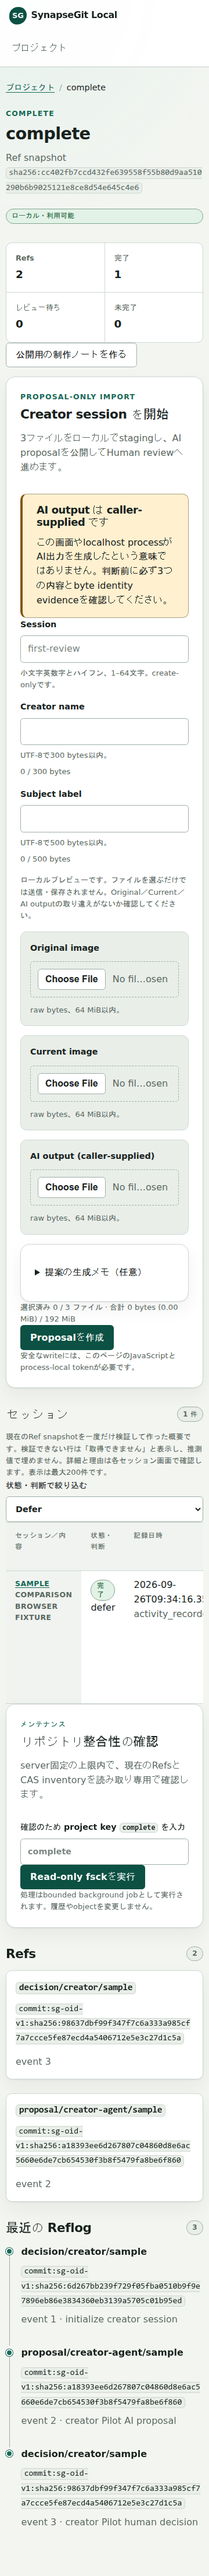
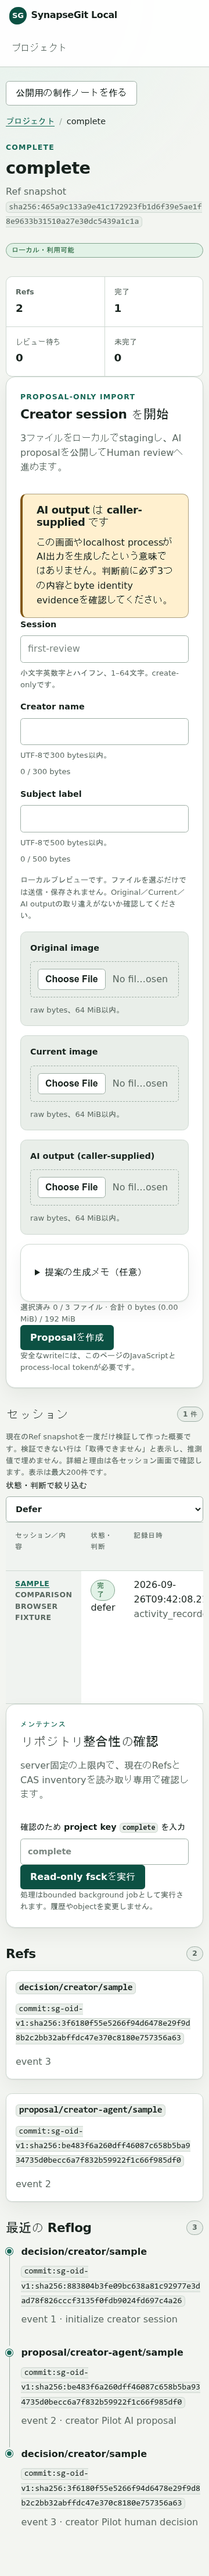
fix(local): place maintenance after creator flow

diff --git a/crates/synapse-local-http/templates/project.html b/crates/synapse-local-http/templates/project.html
@@ -13,13 +13,139 @@
   </div>
   <span class="status-badge" data-tone="success">ローカル・利用可能</span>
 </header>
-<noscript><p><a class="button button--secondary" href="/projects/{{ project_key }}/presentation">公開用の制作ノートを作る</a></p></noscript>
 
 <section class="metric-grid" aria-label="プロジェクト概要">
   <article class="metric"><span class="metric__label">Refs</span><strong>{{ refs.len() }}</strong></article>
   <article class="metric"><span class="metric__label">完了</span><strong>{{ complete_sessions }}</strong></article>
   <article class="metric"><span class="metric__label">レビュー待ち</span><strong>{{ pending_sessions }}</strong></article>
   <article class="metric"><span class="metric__label">未完了</span><strong>{{ incomplete_sessions }}</strong></article>
+</section>
+
+{% if import_inbox_supported %}
+<section class="card" hidden data-import-inbox data-project-key="{{ project_key }}" aria-labelledby="import-inbox-heading">
+  <div class="card__header"><div><p class="eyebrow">Manifest-last inbox</p><h2 id="import-inbox-heading">取り込み待ち</h2><p class="muted">確認時に検証・stagingしたbytesだけをproposalへ取り込みます。</p></div></div>
+  <p data-import-inbox-status role="status"></p>
+  <ul data-import-inbox-list class="stack"></ul>
+  <form hidden data-import-inbox-preview>
+    <h3 tabindex="-1">取り込み内容を確認</h3>
+    <p class="notice" data-tone="warning">AI outputと生成メモはcaller-suppliedです。明示的な判断を行うまでDecisionは記録されません。</p>
+    <div class="upload-grid" data-import-inbox-images></div>
+    <div class="form-grid">
+      <label class="field"><span>Inbox session</span><input name="inbox_session" required maxlength="64" pattern="[a-z][a-z0-9-]{0,63}"></label>
+      <label class="field"><span>Inbox creator name</span><input name="inbox_creator_name" required maxlength="300"></label>
+      <label class="field form-grid__wide"><span>Inbox subject label</span><input name="inbox_subject_label" required maxlength="500"></label>
+      <label class="field"><span>Inbox generation tool</span><input name="inbox_generation_tool" maxlength="300"></label>
+      <label class="field"><span>Inbox generation model</span><input name="inbox_generation_model" maxlength="300"></label>
+      <label class="field form-grid__wide"><span>Inbox generation prompt</span><textarea name="inbox_generation_prompt" maxlength="8192" rows="3"></textarea></label>
+      <label class="field form-grid__wide"><span>Inbox generation intent</span><textarea name="inbox_generation_intent" maxlength="2048" rows="2"></textarea></label>
+    </div>
+    <div class="actions"><button type="submit" data-synapse-submit>Proposalを作成</button><button type="button" data-variant="secondary" data-import-inbox-cancel>一覧へ戻る</button></div>
+  </form>
+</section>
+{% endif %}
+<section class="card project-creator-upload" aria-labelledby="creator-upload-heading">
+  <div class="card__header">
+    <div>
+      <p class="eyebrow">Proposal-only import</p>
+      <h2 id="creator-upload-heading">Creator session を開始</h2>
+      <p class="muted">3ファイルをローカルでstagingし、AI proposalを公開してHuman reviewへ進めます。</p>
+    </div>
+  </div>
+  <div class="notice" data-tone="warning">
+    <h3>AI output は caller-supplied です</h3>
+    <p>この画面やlocalhost processがAI出力を生成したという意味ではありません。判断前に必ず3つの内容とbyte identity evidenceを確認してください。</p>
+  </div>
+  <form
+    hidden
+    method="post"
+    action="/api/v1/projects/{{ project_key }}/creator-sessions"
+    enctype="multipart/form-data"
+    data-synapse-api-form="multipart"
+    data-synapse-creator-upload
+    data-success-session-base="/projects/{{ project_key }}/creator-sessions/"
+    data-busy-message="ファイルを取り込み、proposalを公開しています…"
+    data-success-message="Proposalを公開しました。レビュー画面へ移動します。"
+  >
+    <div class="form-grid">
+      <div class="field">
+        <label for="creator-session">Session</label>
+        <input id="creator-session" name="session" required maxlength="64" pattern="[a-z][a-z0-9-]{0,63}" aria-describedby="creator-session-hint" autocomplete="off" placeholder="first-review">
+        <span id="creator-session-hint" class="field__hint">小文字英数字とハイフン、1–64文字。create-onlyです。</span>
+      </div>
+      <div class="field">
+        <label for="creator-name">Creator name</label>
+        <input id="creator-name" name="creator_name" required maxlength="300" aria-describedby="creator-name-hint creator-name-count" autocomplete="name">
+        <span id="creator-name-hint" class="field__hint">UTF-8で300 bytes以内。</span>
+        <span id="creator-name-count" class="field__hint" data-creator-text-count="creator_name" aria-live="polite" hidden></span>
+      </div>
+      <div class="field form-grid__wide">
+        <label for="creator-subject">Subject label</label>
+        <input id="creator-subject" name="subject_label" required maxlength="500" aria-describedby="creator-subject-hint creator-subject-count" autocomplete="off">
+        <span id="creator-subject-hint" class="field__hint">UTF-8で500 bytes以内。</span>
+        <span id="creator-subject-count" class="field__hint" data-creator-text-count="subject_label" aria-live="polite" hidden></span>
+      </div>
+    </div>
+    <p class="field__hint upload-hint" data-creator-preview-note hidden>ローカルプレビューです。ファイルを選ぶだけでは送信・保存されません。Original／Current／AI outputの取り違えがないか確認してください。</p>
+    <div class="upload-grid">
+      <div class="upload-file" data-creator-file>
+        <label for="creator-original_image">Original image</label>
+        <input id="creator-original_image" type="file" name="original_image" required aria-describedby="creator-original_image-hint creator-original_image-info creator-original_image-status">
+        <p id="creator-original_image-hint" class="field__hint">raw bytes、64 MiB以内。</p>
+        <p id="creator-original_image-info" data-creator-file-info class="field__hint" hidden></p>
+        <img data-creator-preview class="upload-file__preview" alt="Original imageのローカルプレビュー" hidden>
+        <p id="creator-original_image-status" data-creator-preview-status class="field__hint" role="status" hidden></p>
+        <button type="button" data-creator-file-clear data-variant="secondary" aria-label="Original imageの選択を解除" hidden>選択を解除</button>
+      </div>
+      <div class="upload-file" data-creator-file>
+        <label for="creator-current_image">Current image</label>
+        <input id="creator-current_image" type="file" name="current_image" required aria-describedby="creator-current_image-hint creator-current_image-info creator-current_image-status">
+        <p id="creator-current_image-hint" class="field__hint">raw bytes、64 MiB以内。</p>
+        <p id="creator-current_image-info" data-creator-file-info class="field__hint" hidden></p>
+        <img data-creator-preview class="upload-file__preview" alt="Current imageのローカルプレビュー" hidden>
+        <p id="creator-current_image-status" data-creator-preview-status class="field__hint" role="status" hidden></p>
+        <button type="button" data-creator-file-clear data-variant="secondary" aria-label="Current imageの選択を解除" hidden>選択を解除</button>
+      </div>
+      <div class="upload-file" data-creator-file>
+        <label for="creator-ai_output">AI output (caller-supplied)</label>
+        <input id="creator-ai_output" type="file" name="ai_output" required aria-describedby="creator-ai_output-hint creator-ai_output-info creator-ai_output-status">
+        <p id="creator-ai_output-hint" class="field__hint">raw bytes、64 MiB以内。</p>
+        <p id="creator-ai_output-info" data-creator-file-info class="field__hint" hidden></p>
+        <img data-creator-preview class="upload-file__preview" alt="AI output (caller-supplied)のローカルプレビュー" hidden>
+        <p id="creator-ai_output-status" data-creator-preview-status class="field__hint" role="status" hidden></p>
+        <button type="button" data-creator-file-clear data-variant="secondary" aria-label="AI output (caller-supplied)の選択を解除" hidden>選択を解除</button>
+      </div>
+    </div>
+    {% include "generation-note-fields.html" %}
+    <p data-creator-file-summary class="field__hint" role="status" hidden></p>
+    <div class="actions"><button type="submit" data-synapse-submit>Proposalを作成</button></div>
+    <p class="field__hint">安全なwriteには、このページのJavaScriptとprocess-local tokenが必要です。</p>
+    <p data-synapse-status hidden></p>
+  </form>
+  <noscript><div class="notice" data-tone="warning"><p>JavaScriptが無効なため、この画面はread-onlyです。安全なuploadにはprocess-local tokenを付けるJavaScriptが必要です。</p></div></noscript>
+</section>
+
+<section class="project-sessions" aria-labelledby="sessions-heading" data-creator-session-list>
+  <div class="section-heading"><h2 id="sessions-heading">セッション</h2><span class="badge" data-creator-session-count>{{ sessions.len() }} 件</span></div>
+  <p class="field__hint">現在のRef snapshotを一度だけ検証して作った概要です。検証できない行は「取得できません」と表示し、推測値で埋めません。詳細と理由は各セッション画面で確認します。表示は最大200件です。</p>
+  <label class="field"><span>状態・判断で絞り込む</span><select data-creator-session-filter><option value="all">すべて</option><option value="pending">レビュー待ち</option><option value="complete">完了</option><option value="adopt">Adopt</option><option value="reject">Reject</option><option value="defer">Defer</option><option value="incomplete">未完了</option></select></label>
+  {% if sessions.is_empty() %}
+  <div class="empty-state"><h3>セッションはまだありません</h3><p>上のフォームから3ファイルを取り込み、最初のproposalとHuman reviewを開始できます。</p></div>
+  {% else %}
+  <div class="table-wrap"><table>
+    <thead><tr><th>セッション／内容</th><th>状態・判断</th><th>記録日時</th><th>派生元</th><th>head</th></tr></thead>
+    <tbody>
+      {% for session in sessions %}
+      <tr data-creator-session-row data-state="{{ session.state_label }}" data-disposition="{{ session.disposition }}">
+        <th scope="row"><a href="/projects/{{ project_key }}/creator-sessions/{{ session.session }}">{{ session.session }}</a><br><span class="muted">{{ session.subject_label }}</span></th>
+        <td><span class="status-badge" data-tone="{{ session.tone }}">{{ session.state_label }}</span> {{ session.disposition }}</td>
+        <td>{{ session.recorded_at }}<br><span class="muted">{{ session.recorded_time_basis }}</span></td>
+        <td>{% if session.source_session == "—" %}—{% else %}<a href="/projects/{{ project_key }}/creator-sessions/{{ session.source_session }}">{{ session.source_session }}</a>{% endif %}</td>
+        <td><code>{{ session.proposal_head }}</code><br><code>{{ session.decision_head }}</code></td>
+      </tr>
+      {% endfor %}
+    </tbody>
+  </table></div>
+  {% endif %}
 </section>
 
 {% if fsck_supported %}
@@ -152,142 +278,6 @@
   <noscript><div class="notice" data-tone="warning"><p>JavaScriptが無効なため、archive restoreは開始できません。</p></div></noscript>
 </section>
 {% endif %}
-
-{% if import_inbox_supported %}
-<section class="card" hidden data-import-inbox data-project-key="{{ project_key }}" aria-labelledby="import-inbox-heading">
-  <div class="card__header"><div><p class="eyebrow">Manifest-last inbox</p><h2 id="import-inbox-heading">取り込み待ち</h2><p class="muted">確認時に検証・stagingしたbytesだけをproposalへ取り込みます。</p></div></div>
-  <p data-import-inbox-status role="status"></p>
-  <ul data-import-inbox-list class="stack"></ul>
-  <form hidden data-import-inbox-preview>
-    <h3 tabindex="-1">取り込み内容を確認</h3>
-    <p class="notice" data-tone="warning">AI outputと生成メモはcaller-suppliedです。明示的な判断を行うまでDecisionは記録されません。</p>
-    <div class="upload-grid" data-import-inbox-images></div>
-    <div class="form-grid">
-      <label class="field"><span>Inbox session</span><input name="inbox_session" required maxlength="64" pattern="[a-z][a-z0-9-]{0,63}"></label>
-      <label class="field"><span>Inbox creator name</span><input name="inbox_creator_name" required maxlength="300"></label>
-      <label class="field form-grid__wide"><span>Inbox subject label</span><input name="inbox_subject_label" required maxlength="500"></label>
-      <label class="field"><span>Inbox generation tool</span><input name="inbox_generation_tool" maxlength="300"></label>
-      <label class="field"><span>Inbox generation model</span><input name="inbox_generation_model" maxlength="300"></label>
-      <label class="field form-grid__wide"><span>Inbox generation prompt</span><textarea name="inbox_generation_prompt" maxlength="8192" rows="3"></textarea></label>
-      <label class="field form-grid__wide"><span>Inbox generation intent</span><textarea name="inbox_generation_intent" maxlength="2048" rows="2"></textarea></label>
-    </div>
-    <div class="actions"><button type="submit" data-synapse-submit>Proposalを作成</button><button type="button" data-variant="secondary" data-import-inbox-cancel>一覧へ戻る</button></div>
-  </form>
-</section>
-{% endif %}
-
-<section class="card project-creator-upload" aria-labelledby="creator-upload-heading">
-  <div class="card__header">
-    <div>
-      <p class="eyebrow">Proposal-only import</p>
-      <h2 id="creator-upload-heading">Creator session を開始</h2>
-      <p class="muted">3ファイルをローカルでstagingし、AI proposalを公開してHuman reviewへ進めます。</p>
-    </div>
-  </div>
-  <div class="notice" data-tone="warning">
-    <h3>AI output は caller-supplied です</h3>
-    <p>この画面やlocalhost processがAI出力を生成したという意味ではありません。判断前に必ず3つの内容とbyte identity evidenceを確認してください。</p>
-  </div>
-  <form
-    hidden
-    method="post"
-    action="/api/v1/projects/{{ project_key }}/creator-sessions"
-    enctype="multipart/form-data"
-    data-synapse-api-form="multipart"
-    data-synapse-creator-upload
-    data-success-session-base="/projects/{{ project_key }}/creator-sessions/"
-    data-busy-message="ファイルを取り込み、proposalを公開しています…"
-    data-success-message="Proposalを公開しました。レビュー画面へ移動します。"
-  >
-    <div class="form-grid">
-      <div class="field">
-        <label for="creator-session">Session</label>
-        <input id="creator-session" name="session" required maxlength="64" pattern="[a-z][a-z0-9-]{0,63}" aria-describedby="creator-session-hint" autocomplete="off" placeholder="first-review">
-        <span id="creator-session-hint" class="field__hint">小文字英数字とハイフン、1–64文字。create-onlyです。</span>
-      </div>
-      <div class="field">
-        <label for="creator-name">Creator name</label>
-        <input id="creator-name" name="creator_name" required maxlength="300" aria-describedby="creator-name-hint creator-name-count" autocomplete="name">
-        <span id="creator-name-hint" class="field__hint">UTF-8で300 bytes以内。</span>
-        <span id="creator-name-count" class="field__hint" data-creator-text-count="creator_name" aria-live="polite" hidden></span>
-      </div>
-      <div class="field form-grid__wide">
-        <label for="creator-subject">Subject label</label>
-        <input id="creator-subject" name="subject_label" required maxlength="500" aria-describedby="creator-subject-hint creator-subject-count" autocomplete="off">
-        <span id="creator-subject-hint" class="field__hint">UTF-8で500 bytes以内。</span>
-        <span id="creator-subject-count" class="field__hint" data-creator-text-count="subject_label" aria-live="polite" hidden></span>
-      </div>
-    </div>
-    <p class="field__hint upload-hint" data-creator-preview-note hidden>ローカルプレビューです。ファイルを選ぶだけでは送信・保存されません。Original／Current／AI outputの取り違えがないか確認してください。</p>
-    <div class="upload-grid">
-      <div class="upload-file" data-creator-file>
-        <label for="creator-original_image">Original image</label>
-        <input id="creator-original_image" type="file" name="original_image" required aria-describedby="creator-original_image-hint creator-original_image-info creator-original_image-status">
-        <p id="creator-original_image-hint" class="field__hint">raw bytes、64 MiB以内。</p>
-        <p id="creator-original_image-info" data-creator-file-info class="field__hint" hidden></p>
-        <img data-creator-preview class="upload-file__preview" alt="Original imageのローカルプレビュー" hidden>
-        <p id="creator-original_image-status" data-creator-preview-status class="field__hint" role="status" hidden></p>
-        <button type="button" data-creator-file-clear data-variant="secondary" aria-label="Original imageの選択を解除" hidden>選択を解除</button>
-      </div>
-      <div class="upload-file" data-creator-file>
-        <label for="creator-current_image">Current image</label>
-        <input id="creator-current_image" type="file" name="current_image" required aria-describedby="creator-current_image-hint creator-current_image-info creator-current_image-status">
-        <p id="creator-current_image-hint" class="field__hint">raw bytes、64 MiB以内。</p>
-        <p id="creator-current_image-info" data-creator-file-info class="field__hint" hidden></p>
-        <img data-creator-preview class="upload-file__preview" alt="Current imageのローカルプレビュー" hidden>
-        <p id="creator-current_image-status" data-creator-preview-status class="field__hint" role="status" hidden></p>
-        <button type="button" data-creator-file-clear data-variant="secondary" aria-label="Current imageの選択を解除" hidden>選択を解除</button>
-      </div>
-      <div class="upload-file" data-creator-file>
-        <label for="creator-ai_output">AI output (caller-supplied)</label>
-        <input id="creator-ai_output" type="file" name="ai_output" required aria-describedby="creator-ai_output-hint creator-ai_output-info creator-ai_output-status">
-        <p id="creator-ai_output-hint" class="field__hint">raw bytes、64 MiB以内。</p>
-        <p id="creator-ai_output-info" data-creator-file-info class="field__hint" hidden></p>
-        <img data-creator-preview class="upload-file__preview" alt="AI output (caller-supplied)のローカルプレビュー" hidden>
-        <p id="creator-ai_output-status" data-creator-preview-status class="field__hint" role="status" hidden></p>
-        <button type="button" data-creator-file-clear data-variant="secondary" aria-label="AI output (caller-supplied)の選択を解除" hidden>選択を解除</button>
-      </div>
-    </div>
-    {% include "generation-note-fields.html" %}
-    <p data-creator-file-summary class="field__hint" role="status" hidden></p>
-    <div class="actions"><button type="submit" data-synapse-submit>Proposalを作成</button></div>
-    <p class="field__hint">安全なwriteには、このページのJavaScriptとprocess-local tokenが必要です。</p>
-    <p data-synapse-status hidden></p>
-  </form>
-  <noscript><div class="notice" data-tone="warning"><p>JavaScriptが無効なため、この画面はread-onlyです。安全なuploadにはprocess-local tokenを付けるJavaScriptが必要です。</p></div></noscript>
-</section>
-
-<section class="project-sessions" aria-labelledby="sessions-heading" data-creator-session-list>
-  <div class="section-heading"><h2 id="sessions-heading">セッション</h2><span class="badge" data-creator-session-count>{{ sessions.len() }} 件</span></div>
-  <p class="field__hint">現在のRef snapshotを一度だけ検証して作った概要です。検証できない行は「取得できません」と表示し、推測値で埋めません。詳細と理由は各セッション画面で確認します。表示は最大200件です。</p>
-  <label class="field"><span>状態・判断で絞り込む</span><select data-creator-session-filter><option value="all">すべて</option><option value="pending">レビュー待ち</option><option value="complete">完了</option><option value="adopt">Adopt</option><option value="reject">Reject</option><option value="defer">Defer</option><option value="incomplete">未完了</option></select></label>
-  {% if sessions.is_empty() %}
-  <div class="empty-state"><h3>セッションはまだありません</h3><p>上のフォームから3ファイルを取り込み、最初のproposalとHuman reviewを開始できます。</p></div>
-  {% else %}
-  <div class="table-wrap"><table>
-    <thead><tr><th>セッション／内容</th><th>状態・判断</th><th>記録日時</th><th>派生元</th><th>head</th></tr></thead>
-    <tbody>
-      {% for session in sessions %}
-      <tr data-creator-session-row data-state="{{ session.state_label }}" data-disposition="{{ session.disposition }}">
-        <th scope="row"><a href="/projects/{{ project_key }}/creator-sessions/{{ session.session }}">{{ session.session }}</a><br><span class="muted">{{ session.subject_label }}</span></th>
-        <td><span class="status-badge" data-tone="{{ session.tone }}">{{ session.state_label }}</span> {{ session.disposition }}</td>
-        <td>{{ session.recorded_at }}<br><span class="muted">{{ session.recorded_time_basis }}</span></td>
-        <td>{% if session.source_session == "—" %}—{% else %}<a href="/projects/{{ project_key }}/creator-sessions/{{ session.source_session }}">{{ session.source_session }}</a>{% endif %}</td>
-        <td><code>{{ session.proposal_head }}</code><br><code>{{ session.decision_head }}</code></td>
-      </tr>
-      {% endfor %}
-    </tbody>
-  </table></div>
-  {% endif %}
-</section>
-
-<noscript>
-  <style>.project-maintenance,.project-presentation-action{display:none}</style>
-  <section class="card" aria-labelledby="maintenance-noscript-heading">
-    <h2 id="maintenance-noscript-heading">メンテナンス</h2>
-    <p>整合性の確認、アーカイブの書き出し、復元はJavaScriptを必要とする保守操作です。確認対象のproject key入力と、復元先が空であることの確認は有効時にも変わりません。</p>
-  </section>
-</noscript>
 
 <div class="split-grid project-detail">
   <section aria-labelledby="refs-heading">
